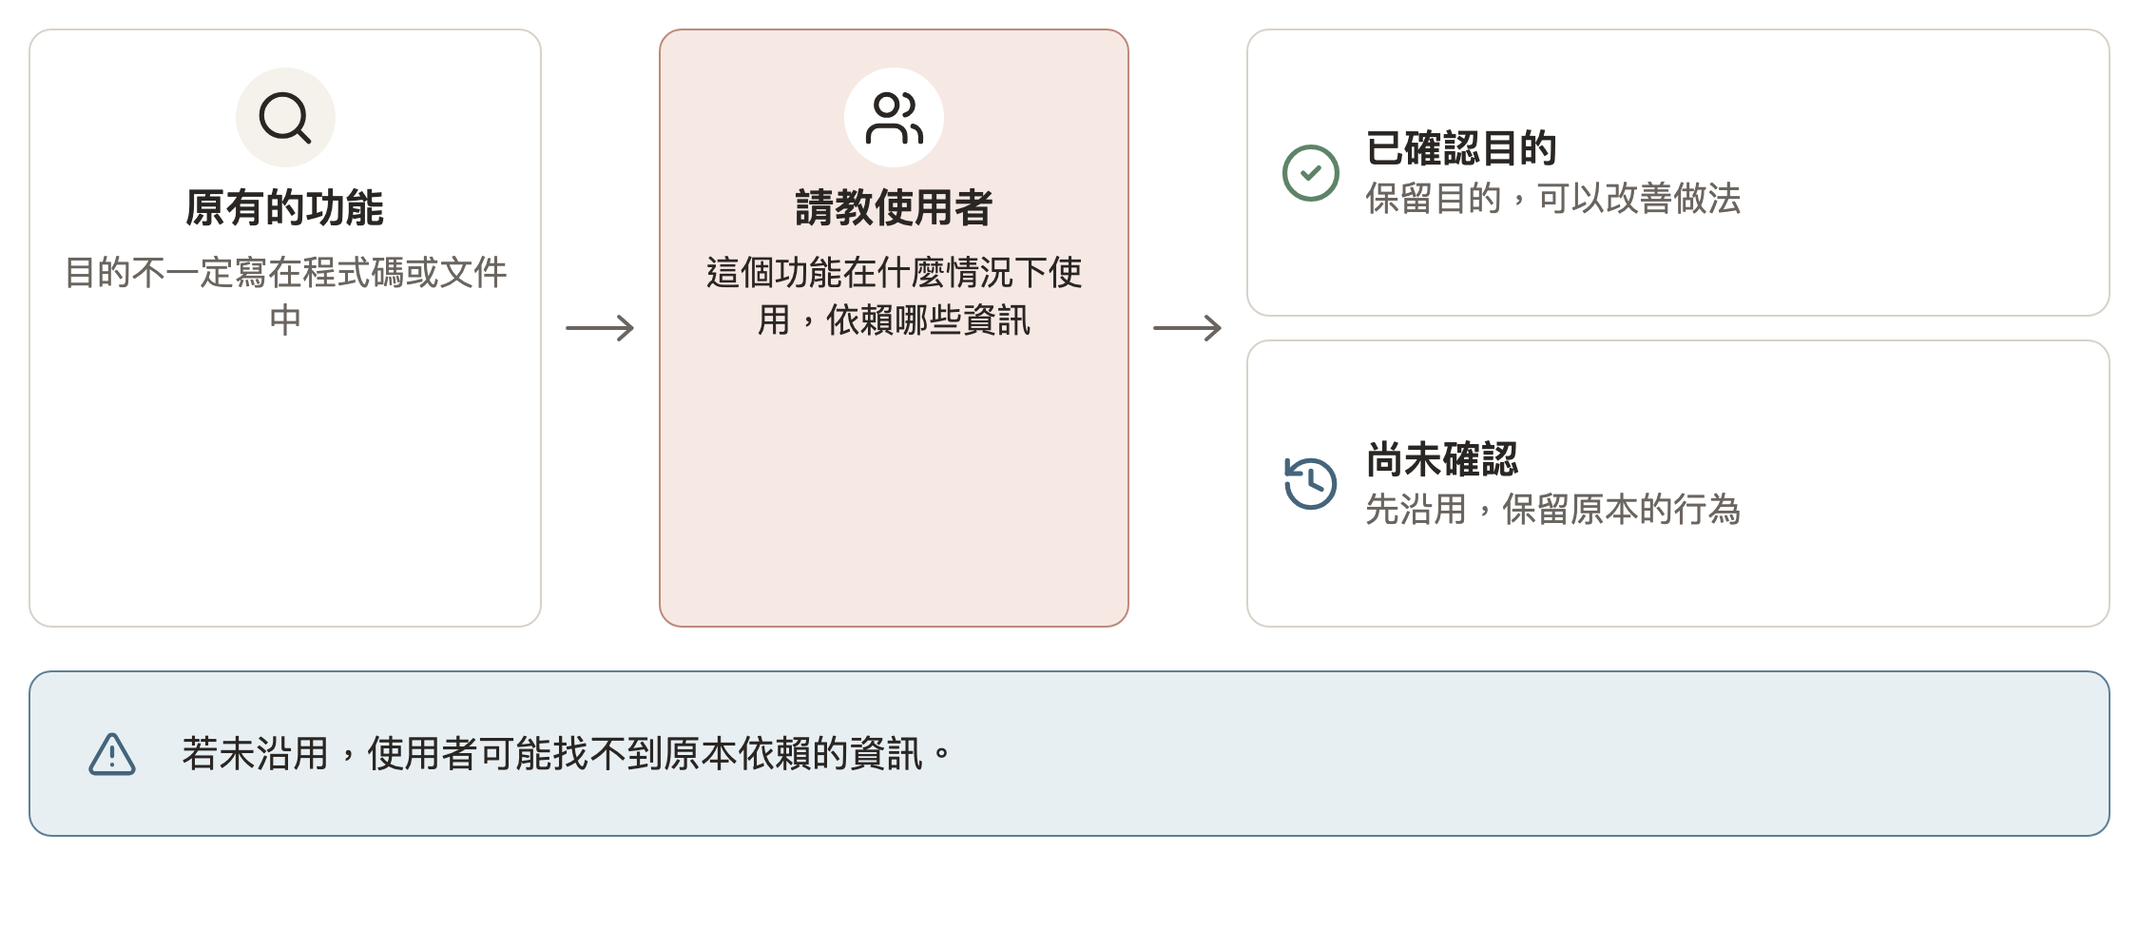
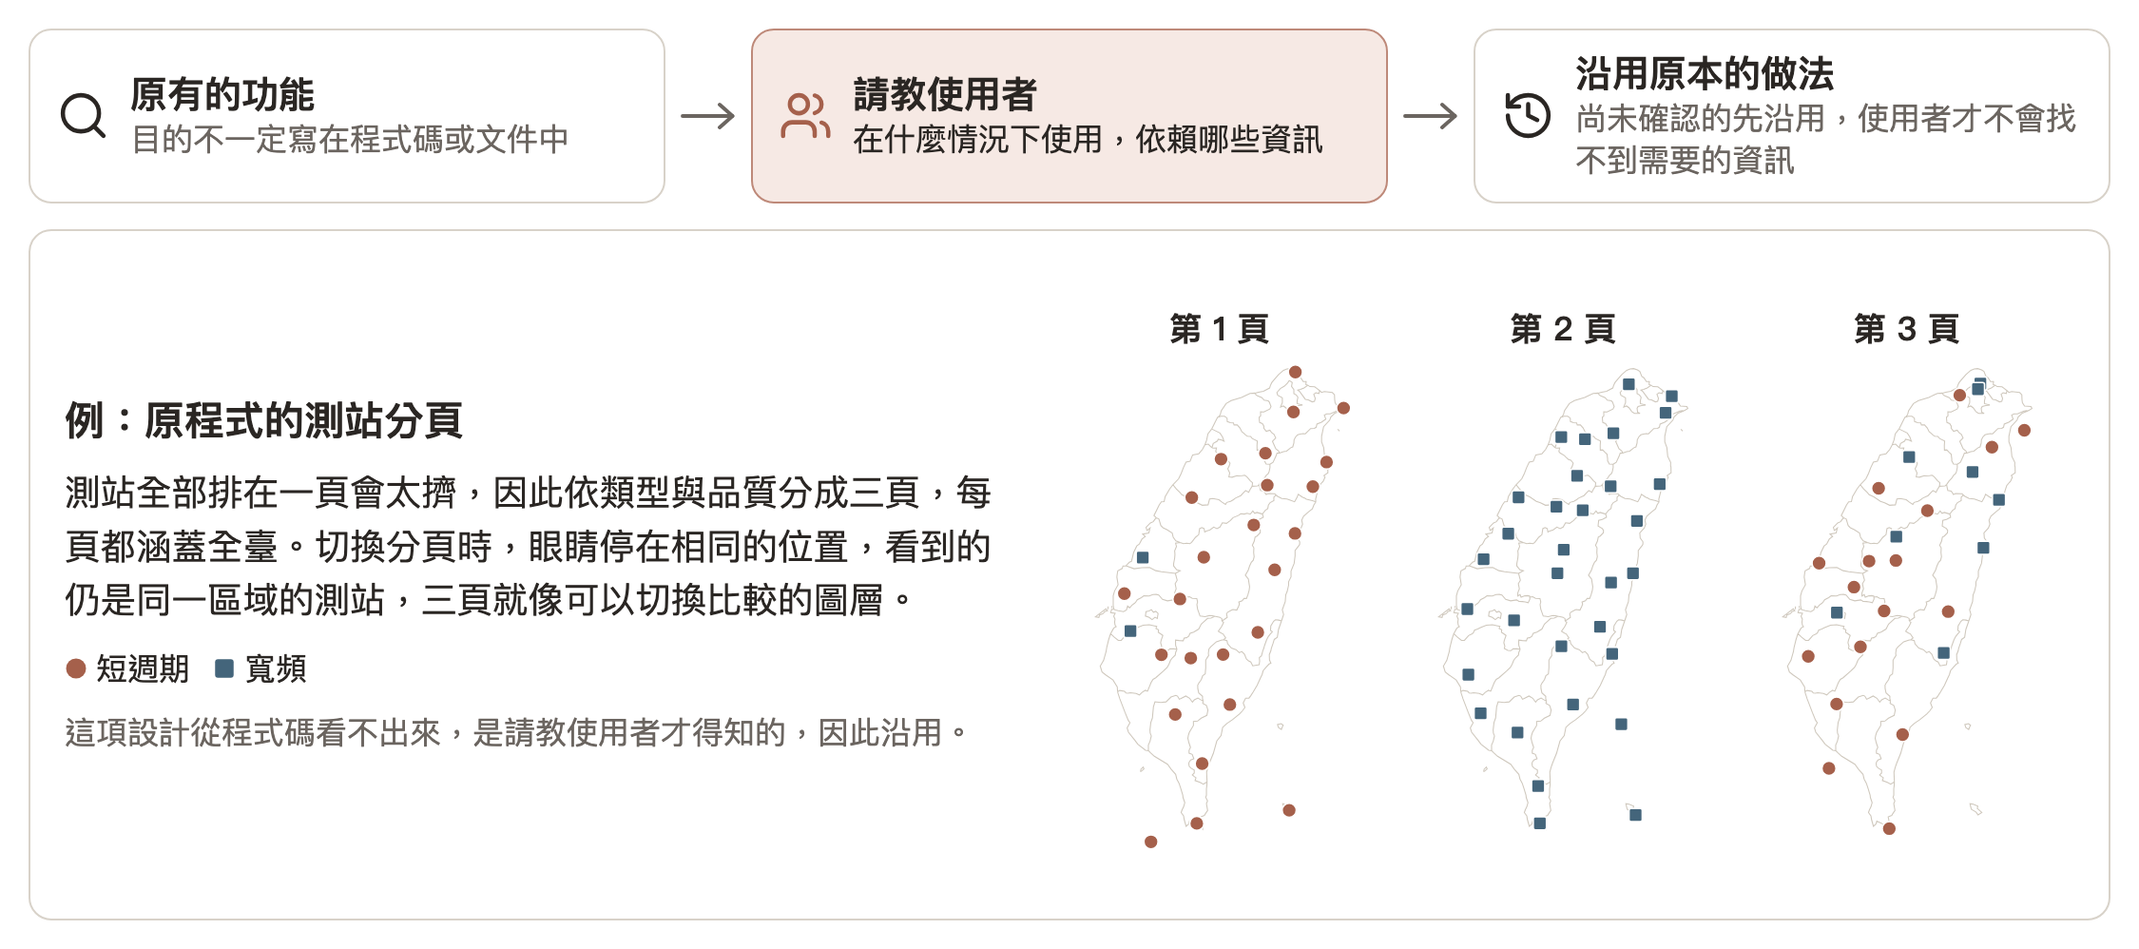
第八週：測站分頁併入沿用習慣，投影片改為 31 頁

diff --git a/assets/week8-diagrams/slides/build.py b/assets/week8-diagrams/slides/build.py
@@ -191,24 +191,6 @@ def s9():
             f'<div class="abs note row" style="left:0;bottom:0;gap:8px">{ic("bulb", 24, MUTED)}想法來自反射震測處理系統與其他地震分析軟體，資料拆分依 QuakeML 的概念</div></div>')
 
 
-# ---------------- 第 12 頁
-@slide(12, "page-map", "三、畫面", "測站分頁", "測站依類型與品質分成三頁，切換分頁時像是比較三個圖層")
-def s12():
-    m = json.loads((HERE / "w8-12-map.json").read_text())
-    pages = [("1", "第 1 頁", "短週期為主", 31, 2), ("2", "第 2 頁", "全部為寬頻", 0, 33), ("3", "第 3 頁", "兩種並列", 19, 13)]
-    cards = ""
-    for k, t, d, sp, bb in pages:
-        counts = (f'<span class="row" style="gap:6px"><svg width="16" height="16"><circle cx="8" cy="8" r="7" fill="{ACCENT_D}"/></svg>{sp}</span>' if sp else "") + f'<span class="row" style="gap:6px"><svg width="16" height="16"><rect x="1.5" y="1.5" width="13" height="13" rx="2" fill="{BLUE_D}"/></svg>{bb}</span>'
-        cards += (f'<div class="card col" style="flex:1;align-items:center;padding:12px 8px 10px"><div class="row" style="gap:10px"><b style="font-size:27px">{t}</b><span style="font-size:23px;color:{MUTED}">{d}</span></div>'
-                  f'<svg width="325" height="473" viewBox="0 0 {m["w"]} {m["h"]}" style="margin:6px 0 10px;overflow:visible">{m["layers"][k]}</svg><div class="row" style="gap:22px;font-size:23px;font-weight:600">{counts}</div></div>')
-    steps = [("users", "全部排在一頁太擠", "約一百站無法同時看清楚"), ("box", "依類型與品質分頁", "每頁約 33 站，都由北而南分布全臺"), ("refresh", "切換比較", "眼睛停在相同的位置，看到的仍是同一區域")]
-    st = "".join(f'<div class="row" style="gap:14px">{badge(i, "a", 34)}<div><div style="font-size:25px;font-weight:700;line-height:1.3">{a}</div><div style="font-size:22px;color:{MUTED};line-height:1.35">{b}</div></div></div>' for i, a, b in steps)
-    side = (f'<div class="col" style="width:380px;gap:20px;height:100%">{st}'
-            f'<div class="row" style="gap:16px;font-size:22px"><span class="row" style="gap:6px"><svg width="16" height="16"><circle cx="8" cy="8" r="7" fill="{ACCENT_D}"/></svg>短週期</span><span class="row" style="gap:6px"><svg width="16" height="16"><rect x="1.5" y="1.5" width="13" height="13" rx="2" fill="{BLUE_D}"/></svg>寬頻</span></div>'
-            f'<div class="card b" style="margin-top:auto;padding:12px 16px;font-size:22px;line-height:1.4">不同分頁同一列的兩站，距離中位數為 39 至 84 公里，隨機打亂時為 134 至 151 公里</div></div>')
-    return f'<div class="row" style="gap:20px;height:100%;align-items:stretch"><div class="row" style="flex:1;gap:12px;align-items:stretch">{cards}</div>{side}</div>'
-
-
 # ---------------- 第 14 頁
 @slide(14, "feedback", "三、畫面", "即時回饋", "所有資訊都即時更新，是介面現代化最大的理由")
 def s14():
@@ -704,15 +686,21 @@ def s10():
 # ---------------- 第 11 頁
 @slide(11, "habit", "三、畫面", "沿用習慣", "原有的功能多半有其目的，重寫之前先向使用者請教，尚未確認的先沿用")
 def s11():
-    src = (f'<div class="card col" style="width:360px;align-items:center;text-align:center;gap:10px;padding:26px 18px">{badge("search", "", 44)}<div class="t">原有的功能</div>'
-           f'<div class="s">目的不一定寫在程式碼或文件中</div></div>')
-    ask = (f'<div class="card a col" style="width:330px;align-items:center;text-align:center;gap:10px;padding:26px 18px">{badge("users", "", 44).replace(BG, "#fff")}<div class="t">請教使用者</div>'
-           f'<div class="s" style="color:{INK}">這個功能在什麼情況下使用，依賴哪些資訊</div></div>')
-    res = [("ok", GOOD, "已確認目的", "保留目的，可以改善做法"), ("history", BLUE_D, "尚未確認", "先沿用，保留原本的行為")]
-    rc = "".join(f'<div class="card row" style="gap:16px;flex:1">{ic(i, 44, c)}<div><div class="t" style="font-size:27px">{a}</div><div class="s">{b}</div></div></div>' for i, c, a, b in res)
-    warn = (f'<div class="card b row" style="gap:18px;margin-top:30px;padding:26px">{badge("warn", "b", 36)}<div style="font-size:26px">若未沿用，使用者可能找不到原本依賴的資訊。'
-            f'<span style="color:{MUTED}">下一頁是其中一個例子。</span></div></div>')
-    return (f'<div class="row" style="gap:16px;align-items:stretch;height:420px">{src}<div style="align-self:center">{arrow(50)}</div>{ask}<div style="align-self:center">{arrow(50)}</div><div class="col" style="flex:1;gap:16px">{rc}</div></div>{warn}')
+    def box(icon, t, d, k=""):
+        return (f'<div class="card {k} row" style="flex:1;gap:14px;padding:14px 18px">{ic(icon, 38, ACCENT_D if k else INK)}<div><div style="font-size:26px;font-weight:700;line-height:1.25">{t}</div><div style="font-size:22px;color:{INK if k else MUTED};line-height:1.35">{d}</div></div></div>')
+    flow = (f'<div class="row" style="gap:10px;align-items:stretch">{box("search", "原有的功能", "目的不一定寫在程式碼或文件中")}<div style="align-self:center">{arrow(40)}</div>'
+            f'{box("users", "請教使用者", "在什麼情況下使用，依賴哪些資訊", "a")}<div style="align-self:center">{arrow(40)}</div>'
+            f'{box("history", "沿用原本的做法", "尚未確認的先沿用，使用者才不會找不到需要的資訊")}</div>')
+    m = json.loads((HERE / "w8-12-map.json").read_text())
+    legend = (f'<span class="row" style="gap:6px"><svg width="16" height="16"><circle cx="8" cy="8" r="7" fill="{ACCENT_D}"/></svg>短週期</span>'
+              f'<span class="row" style="gap:6px"><svg width="16" height="16"><rect x="1.5" y="1.5" width="13" height="13" rx="2" fill="{BLUE_D}"/></svg>寬頻</span>')
+    pages = [("1", "第 1 頁"), ("2", "第 2 頁"), ("3", "第 3 頁")]
+    maps = "".join(f'<div class="col" style="align-items:center;gap:2px"><b style="font-size:23px">{t}</b><svg width="235" height="342" viewBox="0 0 {m["w"]} {m["h"]}" style="overflow:visible">{m["layers"][k]}</svg></div>' for k, t in pages)
+    text = (f'<div class="col" style="flex:1;gap:14px;justify-content:center"><div class="t">例：原程式的測站分頁</div>'
+            f'<div style="font-size:25px;line-height:1.5">測站全部排在一頁會太擠，因此依類型與品質分成三頁，每頁都涵蓋全臺。切換分頁時，眼睛停在相同的位置，看到的仍是同一區域的測站，三頁就像可以切換比較的圖層。</div>'
+            f'<div class="row" style="gap:16px;font-size:22px">{legend}</div>'
+            f'<div style="font-size:22px;color:{MUTED};line-height:1.4">這項設計從程式碼看不出來，是請教使用者才得知的，因此沿用。</div></div>')
+    return f'<div class="col" style="gap:18px;height:100%">{flow}<div class="card row" style="flex:1;gap:18px;padding:14px 24px">{text}<div class="row" style="gap:6px">{maps}</div></div></div>'
 
 
 # ---------------- 第 13 頁
@@ -924,7 +912,7 @@ def main():
         name, sec, title, msg, fn = SLIDES[no]
         head = f'<div class="sec">{sec}</div><h1>{title}</h1><div class="msg">{msg}</div>' if title else ""
         html = (f'<!doctype html><meta charset="utf-8"><style>{CSS}</style><body>{head}'
-                f'<div class="body">{fn()}</div><div class="foot"><span>第八週｜Agent 時代的知識工作</span><span>{no}</span></div>')
+                f'<div class="body">{fn()}</div><div class="foot"><span>第八週｜Agent 時代的知識工作</span><span>{sorted(SLIDES).index(no) + 1}</span></div>')
         src = TMP / f"w8-{no:02d}.html"
         src.write_text(html, encoding="utf-8")
         out = HERE / f"w8-{no:02d}-{name}.png"

diff --git a/assets/week8-diagrams/slides/deck.py b/assets/week8-diagrams/slides/deck.py
@@ -24,8 +24,8 @@ def parse():
             sec += 1
             pages.append((HERE / f"w8-sec{sec}.png", ""))
             continue
-        no = int(head.split("｜")[0])
-        img = next(HERE.glob(f"w8-{no:02d}-*.png"))
+        # 圖片檔名的編號沿用初版，頁碼可能有跳號，依順序對應
+        img = sorted(HERE.glob("w8-[0-9][0-9]-*.png"))[int(head.split("｜")[0]) - 1]
         note = body.split("**筆記**", 1)[1] if "**筆記**" in body else ""
         lines = [l[2:].strip() for l in note.splitlines() if l.startswith("- ")]
         pages.append((img, "\n".join(lines)))

diff --git a/drafts/25-week8-slides.md b/drafts/25-week8-slides.md
@@ -3,8 +3,9 @@
 > 狀態：逐頁稿第一版（2026-11-03），由 [ghost deck](24-week8-ghost-deck.md) 第一版書面化而成，內容依[第八週大綱](23-week8-outline.md)第四版，並採用 ghost deck 建議的五處合併。供日後以建置腳本產生 PPTX，格式沿用第七週（`drafts/22-week7-slides.md`）。
 > 格式：每頁「**畫面**」上投影片，「**筆記**」與「**原話與來源**」進備註。畫面中「- 主訊息：」為粗體大字；「- 圖：`路徑`｜圖說」為置入的圖片，路徑不存在時以灰框預留位置。
 > 圖片狀態：整份投影片改為圖片（`assets/week8-diagrams/slides/`，`build.py` 產生各頁，`deck.py` 組成 `slides/week8.pptx`，備註取自本稿的筆記）。下列畫面欄的【待畫】【待拍】為第一版的規劃，以圖片版的內容為準；原訂截圖的頁面暫以虛構資料的畫面示意。
+> 頁碼：測站分頁併入沿用習慣之後，第 12 頁以後的頁碼前移一頁；圖片檔名的編號沿用初版。
 > 去識別化：不寫系統與程式名稱、主機、路徑與測站代碼；原話中的名稱以［］內的一般說法取代，時間只標日期。
-> 共 32 頁，另加 7 張段落標題頁（不佔頁碼）。時間比較充裕，可以邊講邊討論，細節依討論取捨。
+> 共 31 頁，另加 7 張段落標題頁（不佔頁碼）。時間比較充裕，可以邊講邊討論，細節依討論取捨。
 
 ## 逐頁
 
@@ -190,37 +191,20 @@
 
 **畫面**
 
-- 版面：左文右圖
-- 主訊息：原有的功能多半有其目的，重寫之前先向使用者請教，尚未確認的先沿用
-- 段落：這些目的不一定寫在程式碼或文件中。若未沿用，使用者可能找不到原本依賴的資訊。
-- 圖：`assets/week8-shots/w8-11-old-new.png`｜原程式與新畫面的對照【待拍】
-
-**筆記**
-
-- 口述：開發過程中曾向使用者請教原程式的用法，這些用法從程式碼本身看不出來。下一頁是其中一個例子。
-
-**原話與來源**
-
-- 原話：「很多功能本身當初設計出來應該都是有個目的的，所以如果沒有沿用原本功能可能使用者用起來就是會少了某個需要找的東西」（11/02）
-
-### 12｜測站分頁
-
-**畫面**
-
 - 版面：圖為主
-- 主訊息：測站依類型與品質分成三頁，切換分頁時像是比較三個圖層
-- 圖：`assets/week8-diagrams/w8-12-page-map.png`｜三頁的測站分布：第 1 頁以短週期為主，第 2 頁全部為寬頻，第 3 頁兩種並列，每頁都涵蓋全臺
-- 段落：不同分頁同一列的兩站，距離中位數為 39 至 84 公里，隨機打亂時為 134 至 151 公里。
+- 主訊息：原有的功能多半有其目的，重寫之前先向使用者請教，尚未確認的先沿用
+- 段落：例如原程式的測站分頁：測站全部排在一頁會太擠，因此依類型與品質分成三頁，每頁都涵蓋全臺，切換時像是比較三個圖層。
+- 圖：`assets/week8-diagrams/slides/w8-11-habit.png`｜請教與沿用的流程，以及三頁的測站分布
 
 **筆記**
 
-- 口述：這是請教使用者才得知的設計。測站全部排在一頁會太擠，因此依類型與品質分成三頁，每頁約 33 站，都由北而南分布全臺。切換分頁時，眼睛停在相同的位置，看到的仍是同一區域的測站，所以三頁就像三個可以切換比較的圖層。類型的統計與距離是以排序表查證的結果。
+- 口述：開發過程中曾向使用者請教原程式的用法，這些用法從程式碼本身看不出來。測站分頁是原程式的設計，這裡說明的是沿用的理由。切換分頁時，眼睛停在相同的位置，看到的仍是同一區域的測站。以排序表查證，第 1 頁以短週期為主，第 2 頁全部為寬頻，第 3 頁兩種並列；不同分頁同一列的兩站，距離中位數為 39 至 84 公里，隨機打亂時為 134 至 151 公里。
 
 **原話與來源**
 
-- 原話：「分頁測站有照著測站的位置去排，所以每個分頁差不多的位置在地圖上也是相近的」（11/02）；「原本要全部排起來可能畫面會很擠，所以照測站類型與品質分成三頁，這樣就有點像三個圖層可以切換比較」（11/03）
+- 原話：「很多功能本身當初設計出來應該都是有個目的的，所以如果沒有沿用原本功能可能使用者用起來就是會少了某個需要找的東西」（11/02）；「原本要全部排起來可能畫面會很擠，所以照測站類型與品質分成三頁，這樣就有點像三個圖層可以切換比較」（11/03）；「測站分頁應該不算是我們做的功能？算是符合原本的使用習慣」（11/03）
 
-### 13｜逐步導入
+### 12｜逐步導入
 
 **畫面**
 
@@ -238,7 +222,7 @@
 
 - 原話：「一方面是還沒成熟的功能可以測試，另一方面是要減少學習門檻，他們在打開的過程中會慢慢去吸收這些原本沒有的功能」（11/02）；「大家接受並使用一段時間就會合併到一般功能中」（11/02）；「這些操作就不要強迫使用者接受，而是用可以選的方式讓他們自己去選擇」（11/02）；「不會說沒辦法創新，也不會讓使用者在工作很趕的當下被推新功能導致操作受阻」（11/02）
 
-### 14｜即時回饋
+### 13｜即時回饋
 
 **畫面**
 
@@ -255,7 +239,7 @@
 
 - 原話：「這個算是把介面現代化的最大的理由，就是所有資訊可以即時更新，操作的時候就會有累積出體感，知道說哪些值是怎麼影響最終結果的」（11/02）；「以前的迭代週期可能是要全部跑完而且要自己想辦法畫圖才會看得到」（11/02）
 
-### 15｜示範：面板連動
+### 14｜示範：面板連動
 
 **畫面**
 
@@ -275,7 +259,7 @@
 
 - 原話：「我滑鼠在 hover 拖曳或是點擊都會有對應的資訊即時更新」（11/02）
 
-### 16｜任務列表
+### 15｜任務列表
 
 **畫面**
 
@@ -292,7 +276,7 @@
 
 - 原話：「他們是有提到說有想要一個很像在旁邊幫忙的看 qc 的一個程式，那這個其實就很像是遊戲的任務列表」（11/02）
 
-### 17｜正向引導
+### 16｜正向引導
 
 **畫面**
 
@@ -313,7 +297,7 @@
 
 - 原話：「他其實是從原本的 qc 像是批評跟阻擋變成正向引導」（11/02）；「所有狀態都轉內部了，所以存檔是存在裡面的資料庫，比較像是工作階段的暫存」（11/02）
 
-### 18｜主動提供資訊
+### 17｜主動提供資訊
 
 **畫面**
 
@@ -330,7 +314,7 @@
 
 - 原話：「把那個階段要的東西主動遞上來」（11/02）；「程式會自己幫忙調整介面，很像是有個助手的感覺」（11/02）
 
-### 19｜示範：近站任務
+### 18｜示範：近站任務
 
 **畫面**
 
@@ -348,7 +332,7 @@
 
 ### 段｜四、接上現行流程
 
-### 20｜分階段替換
+### 19｜分階段替換
 
 **畫面**
 
@@ -371,7 +355,7 @@
 
 ### 段｜五、新的處理想法
 
-### 21｜自動權重
+### 20｜自動權重
 
 **畫面**
 
@@ -388,7 +372,7 @@
 
 - 原話：「像自動權重就是要讓處理標準化」（11/02）
 
-### 22｜先挑再關聯
+### 21｜先挑再關聯
 
 **畫面**
 
@@ -408,7 +392,7 @@
 
 ### 段｜六、開發的時間成本
 
-### 23｜時間成本的轉移
+### 22｜時間成本的轉移
 
 **畫面**
 
@@ -424,7 +408,7 @@
 
 - 原話：「雖然 agent 降低了寫程式寫功能的成本，但軟體開發有很大一塊還是在設計的迭代上，所以還是會很花時間的，是給他們一個心理建設」（11/02）
 
-### 24｜驗證的負擔
+### 23｜驗證的負擔
 
 **畫面**
 
@@ -441,7 +425,7 @@
 
 - 原話：「因為現在功能做出來很快就會做更多功能，所以要測的東西就變多了，要一次考慮的東西也變多了」（11/02）；「主要是要把每個功能拆到可以獨立」（11/02）
 
-### 25｜反覆修改
+### 24｜反覆修改
 
 **畫面**
 
@@ -459,7 +443,7 @@
 
 - 原話：「agent 開發這種 ui 的過程，就是他需要一直反覆的修才會變成我們要的樣子」（11/02）
 
-### 26｜原型的前提
+### 25｜原型的前提
 
 **畫面**
 
@@ -475,7 +459,7 @@
 
 - 原話：「因為這個東西目前是有舊程式可以參考，加上本身對這個主題已經有研究了，所以才有辦法在短時間內做出 prototype」（11/02）；「目前還是有很多流程上的細節需要細修跟迭代」（11/02）；「真的要把它做完整要給使用者測試，那這個迭代過程就會很長」（11/02）
 
-### 27｜軟體與組織
+### 26｜軟體與組織
 
 **畫面**
 
@@ -494,7 +478,7 @@
 
 ### 段｜下一步與結語
 
-### 28｜下一步
+### 27｜下一步
 
 **畫面**
 
@@ -511,7 +495,7 @@
 
 - 原話：「一個比較具體的下一步應該就是讓一些人實際使用看看，然後重新想一下要評估的指標，這樣就可以記錄成效」（11/02）；「用幾個選出來的案例，然後用引導方式來教怎麼操作這個軟體，就可以降低培養新人的門檻，甚至可以當作是一種學校的教具使用」（11/02）
 
-### 29｜跨越的範圍
+### 28｜跨越的範圍
 
 **畫面**
 
@@ -528,7 +512,7 @@
 
 - 無原話；由 Agent 提出，講者同意（11/02）。
 
-### 30｜設計意圖的保存
+### 29｜設計意圖的保存
 
 **畫面**
 
@@ -545,7 +529,7 @@
 
 - 無原話；由 Agent 提出，講者同意（11/02）。
 
-### 31｜新的交付模式
+### 30｜新的交付模式
 
 **畫面**
 
@@ -565,7 +549,7 @@
 
 - 原話：「一些小修小補可以［業務］透過設計好的 agent 流程就可以自己做，等於有一個駐點工程師的概念，那大的功能跟重新設計就還是會回報到［開發］來做」（11/02）；「有時候你叫人家來修就是要好幾天，如果很急又不是什麼大事，自己修可能更快，但是如果他們要找我去修，我是很樂意去做這件事的」（11/02）
 
-### 32｜討論與交換意見
+### 31｜討論與交換意見
 
 **畫面**
 

diff --git a/工作紀錄.md b/工作紀錄.md
@@ -1183,3 +1183,4 @@
 - 2026-11-03 續：使用者要求先寫成網頁上的文稿。新增 lessons/08-relocation-redesign.qmd，內容依大綱第四版與逐頁稿，配圖為投影片各頁的主體（assets/week8-figs/，build.py figs 產生）；首頁課表與 schedule.tsv 先以候選課名「定位工作的翻新設計」更新，投影片連結與課程表 PDF 尚未更新。這台電腦沒有 Quarto，以 pandoc 預覽，尚未以 Quarto 實際建置。
 - 2026-11-03 續：使用者要求投影片加上截圖。以獨立的無頭瀏覽器操作開發中的系統，擋下寫入類的請求，繪製時把測站代碼、舊程式名稱、使用者與專案名稱替換，資料庫比對無變動。第 5、6、10、13、15、16、19 頁改用實際畫面，截圖放 assets/week8-shots/，含真實的事件資料，不進 git；網頁文稿仍用示意畫面。
 - 2026-11-03 續：使用者修正測站分頁的意思：全部排在一頁會太擠，因此依類型與品質分成三頁，像三個可以切換比較的圖層。重畫第 12 頁，逐頁稿、大綱與文稿一併更正。排序表可查證類型（第 1 頁短週期 31 站、寬頻 2 站；第 2 頁寬頻 33 站；第 3 頁短週期 19 站、寬頻 13 站），品質的依據來自使用者，排序表沒有對應的欄位可以確認。
+- 2026-11-03 續：使用者指出測站分頁是原程式的設計，屬於沿用習慣的例子，不必單獨一頁。併入第 11 頁，投影片變為 31 頁加 7 張段落頁，文稿同步合併。連續波形檔的共用硬碟因主機重新開機而掉線，重新掛載後波形牆可以拍攝；第 10 頁的切地震換成有波形的畫面。
